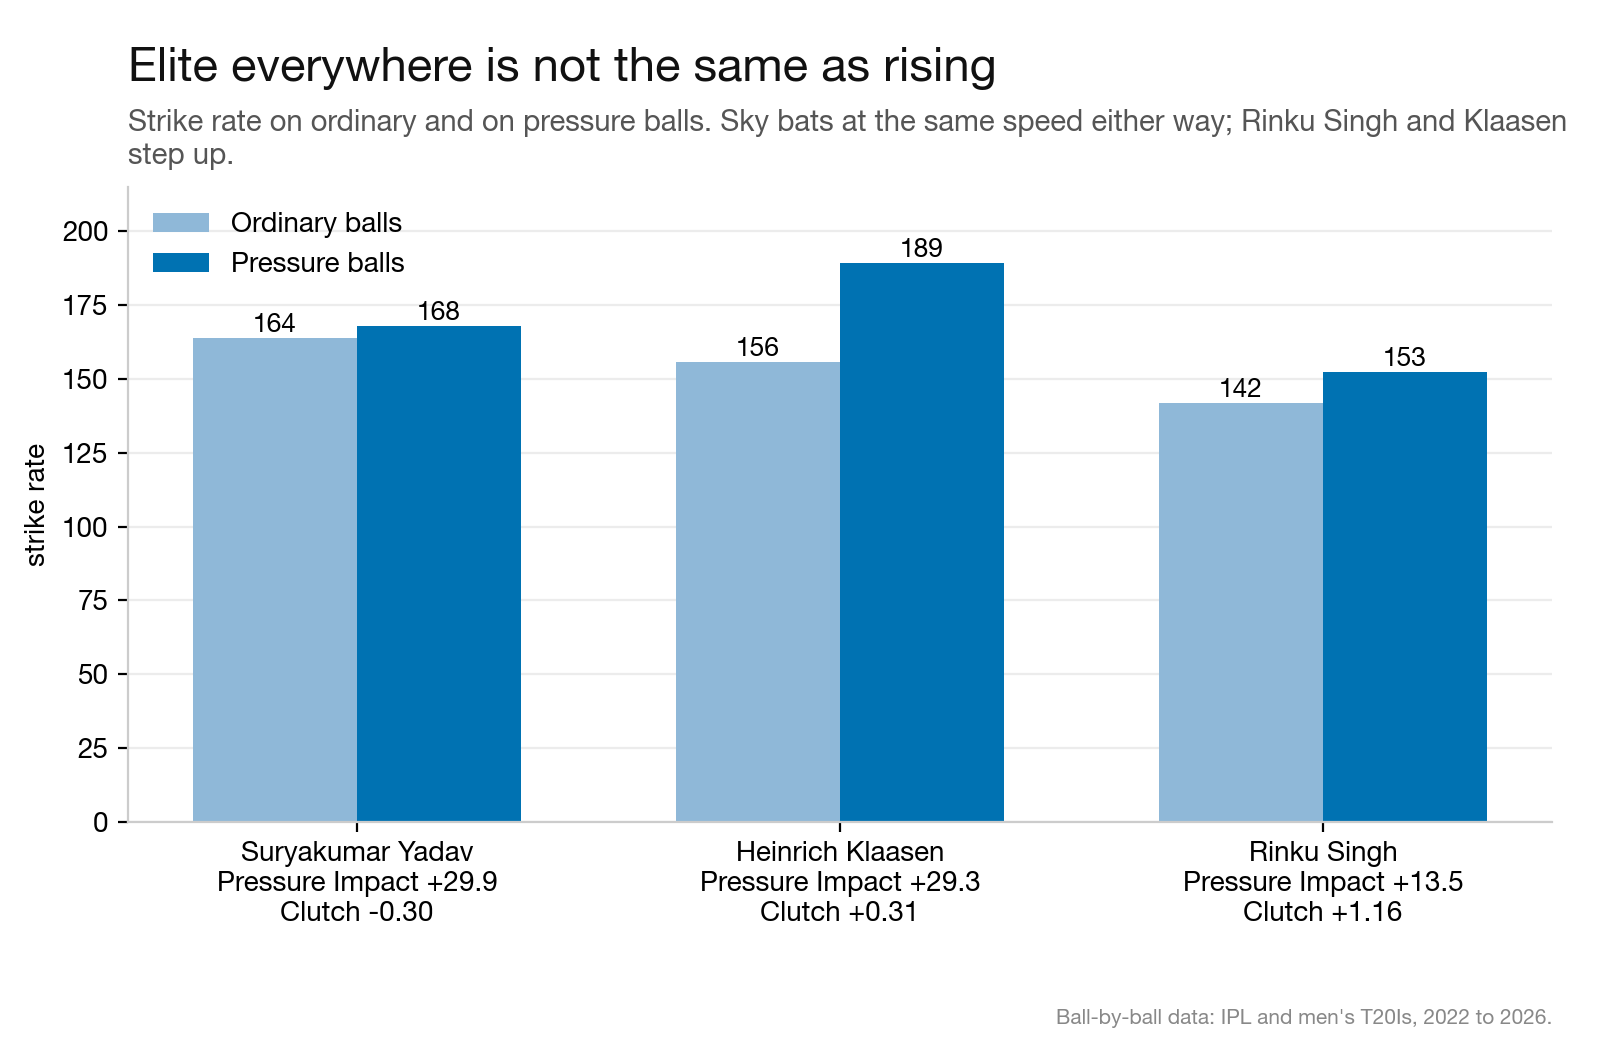
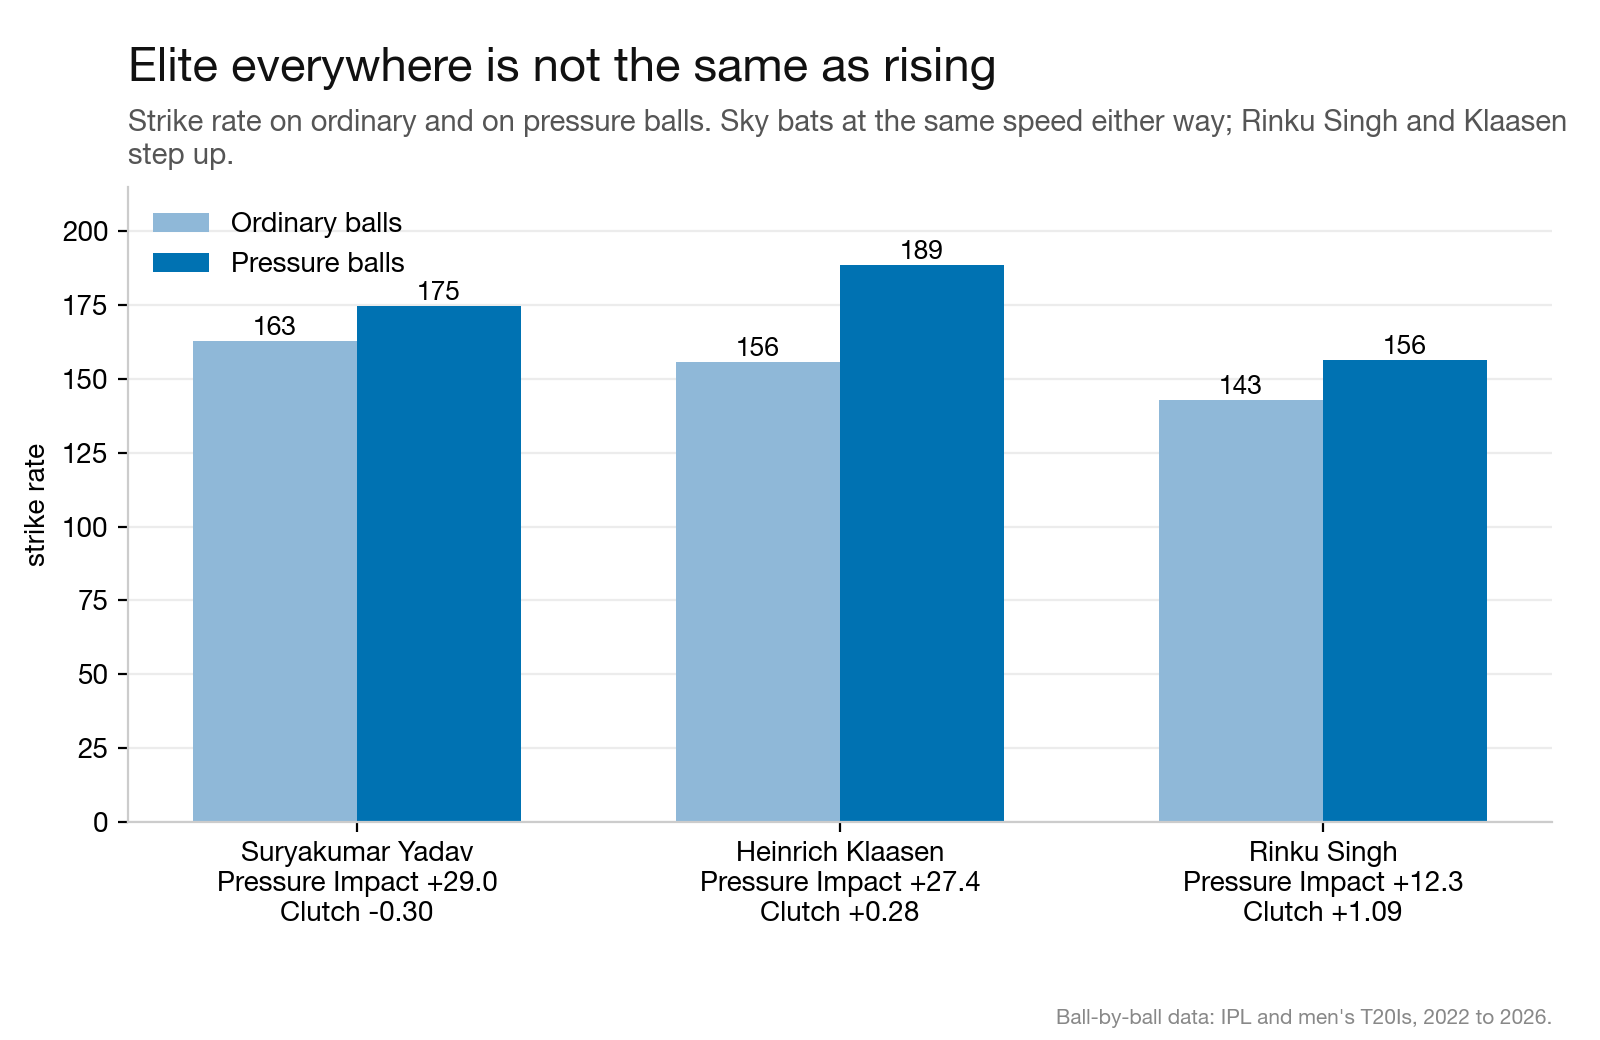
Update pressure article with rain-reduced matches

diff --git a/site/content/cricket/who-delivers-when-it-matters.md b/site/content/cricket/who-delivers-when-it-matters.md
@@ -1,7 +1,7 @@
 ---
 title: "Who Delivers When It Matters? Rating IPL and T20I Players Under Pressure"
 slug: "who-delivers-when-it-matters"
-description: "A ball-by-ball look at 185,567 IPL and T20I deliveries to find who adds the most when the match is on the line. Heinrich Klaasen and Sunil Narine lead, but the bigger finding is how hard 'clutch' is to measure."
+description: "A ball-by-ball look at 189,683 IPL and T20I deliveries to find who adds the most when the match is on the line. Tim David and Sunil Narine lead, but the bigger finding is how hard 'clutch' is to measure."
 standfirst: "Everyone has a name for the player who delivers when it counts. We tried to put a number on it, and found that being good under pressure and rising under pressure are two different things."
 date: 2026-11-16
 category: "Data Stories"
@@ -11,13 +11,13 @@ cover_alt: "Bold white poster text on a dark navy background reading: Pressure i
 author: "Pranav Arakkal"
 featured: false
 methodology: >-
-  Built in Python on ball-by-ball data for 777 usable IPL and men's T20I matches from 2022 to 2026
-  (185,567 balls). Every ball gets a win probability from an expected-runs curve, and a leverage
+  Built in Python on ball-by-ball data for 802 usable IPL and men's T20I matches from 2022 to 2026, including completed rain-reduced games, which are scored on their own revised overs and target
+  (189,683 balls). Every ball gets a win probability from an expected-runs curve, and a leverage
   score from how much each possible outcome would move that probability. A pressure ball is one
-  with leverage of 1.4 or more, about one ball in seven. Each ball is scored in runs against an
+  with leverage of 1.4 or more, about one ball in eight. Each ball is scored in runs against an
   average player in the same innings, phase and leverage band, and the players' averages are
   shrunk towards the group by empirical Bayes so small samples cannot top the list. Players need
-  300 balls and 75 pressure balls to be rated (96 batters and 102 bowlers qualify). Clutch
+  300 balls and 75 pressure balls to be rated (101 batters and 110 bowlers qualify). Clutch
   is the standard baseball formula, win probability added scaled by average leverage minus the
   same total with each ball divided by its own leverage, using balls with leverage of 0.5 or
   more. The final score is 80 percent Pressure Impact and 20 percent clutch.
@@ -36,7 +36,7 @@ I built this for the Rajasthan Royals' SupeRR Selector challenge, which asks for
 
 ## First, what counts as pressure?
 
-You can't measure pressure by feel, so we measured it by what a ball can do to the match. For every ball in 777 IPL and T20I matches, we worked out the batting side's chance of winning, then asked a second question *before the ball was bowled*: if this ball goes for a wicket, a dot, a single, a four or a six, how far does that chance move?
+You can't measure pressure by feel, so we measured it by what a ball can do to the match. For every ball in 802 IPL and T20I matches, we worked out the batting side's chance of winning, then asked a second question *before the ball was bowled*: if this ball goes for a wicket, a dot, a single, a four or a six, how far does that chance move?
 
 Average those swings and you get what I call **leverage**. An average ball is 1.0. A ball that can swing the match three times as much is a 3.
 
@@ -48,7 +48,7 @@ Here is a real one. Mumbai defending 167 against Bengaluru, May 2026. Bengaluru 
   <span class="chart-source">Ball-by-ball data, IPL and men's T20Is, 2022 to 2026.</span></figcaption>
 </figure>
 
-We split leverage into three bands: **low (0.5 to 0.85), medium (0.85 to 1.4) and high (1.4 and above)**. A **pressure ball** is a high-leverage ball. That is about one ball in seven, and almost all of them come in the middle and end of a chase.
+We split leverage into three bands: **low (0.5 to 0.85), medium (0.85 to 1.4) and high (1.4 and above)**. A **pressure ball** is a high-leverage ball. That is about one ball in eight, and almost all of them come in the middle and end of a chase.
 
 ## Two ways to be good under pressure
 
@@ -67,30 +67,30 @@ Those are not the same thing. A player who is elite in every situation has nothi
 </figure>
 
 <div class="stat-row">
-  <div class="stat-callout"><div class="stat-value">+29.9</div><div class="stat-label">Suryakumar Yadav's Pressure Impact: extra runs per 100 pressure balls</div></div>
+  <div class="stat-callout"><div class="stat-value">+29.0</div><div class="stat-label">Suryakumar Yadav's Pressure Impact: extra runs per 100 pressure balls</div></div>
   <div class="stat-callout"><div class="stat-value">-0.30</div><div class="stat-label">His clutch score: no gap between his best and his usual</div></div>
-  <div class="stat-callout"><div class="stat-value">+1.16</div><div class="stat-label">Rinku Singh's clutch score: he lifts under pressure</div></div>
+  <div class="stat-callout"><div class="stat-value">+1.09</div><div class="stat-label">Rinku Singh's clutch score: he lifts under pressure</div></div>
 </div>
 
-Jasprit Bumrah is the same story. He is 2nd among bowlers on Pressure Impact, and 62th of 101 on clutch (-0.21). Nobody thinks he is a poor performer in big moments. It just means he is as good in the quiet overs as he is in the loud ones.
+Jasprit Bumrah is the same story. He is 2nd among bowlers on Pressure Impact, and 63rd of 107 on clutch (-0.19). Nobody thinks he is a poor performer in big moments. It just means he is as good in the quiet overs as he is in the loud ones.
 
 ## Putting them together
 
 If you want the player who is genuinely best when the match is on the line, Pressure Impact is the better guide. Clutch still tells us something, so I kept it, but only as 20% of the final score because it is far noisier. The **combined score** is 80% Pressure Impact and 20% clutch, scaled so that 50 is the average rated player.
 
-One more safeguard: luck. A player with 75 pressure balls and a hot streak looks brilliant for no reason. So every number is pulled back towards the average in proportion to how little data stands behind it. David Warner, for example, scores +37 runs per 100 on his raw pressure balls, but only has 75 of them, so his final rating settles at +24.0. Players need at least 300 balls and 75 pressure balls to be rated at all, which leaves 96 batters and 102 bowlers.
+One more safeguard: luck. A player with 75 pressure balls and a hot streak looks brilliant for no reason. So every number is pulled back towards the average in proportion to how little data stands behind it. Vaibhav Sooryavanshi, for example, scores +111 runs per 100 on his raw pressure balls, but only has 80 of them, so his final rating settles at +25.0. Players need at least 300 balls and 75 pressure balls to be rated at all, which leaves 101 batters and 110 bowlers.
 
 ## The top 10
 
 <figure class="chart-figure">
   <img src="/charts/cricket/rr_top10_batters.png" alt="Horizontal bar chart of the ten batters with the highest combined pressure score">
-  <figcaption>Heinrich Klaasen, Tim David, Suryakumar Yadav lead the batters. The gaps between the top few are small, so treat the top three as a cluster, not a strict order.
+  <figcaption>Tim David, Heinrich Klaasen, Suryakumar Yadav lead the batters. The gaps between the top few are small, so treat the top three as a cluster, not a strict order.
   <span class="chart-source">Ball-by-ball data, 2022 to 2026.</span></figcaption>
 </figure>
 
 <figure class="chart-figure">
   <img src="/charts/cricket/rr_top10_bowlers.png" alt="Horizontal bar chart of the ten bowlers with the highest combined pressure score">
-  <figcaption>Sunil Narine, Rashid Khan, Jasprit Bumrah lead the bowlers. Bumrah's clutch score holds him back a little, but his Pressure Impact is among the best.
+  <figcaption>Sunil Narine, Jasprit Bumrah, Rashid Khan lead the bowlers. Bumrah's clutch score sits a little below zero, but his Pressure Impact is among the best.
   <span class="chart-source">Ball-by-ball data, 2022 to 2026.</span></figcaption>
 </figure>
 
